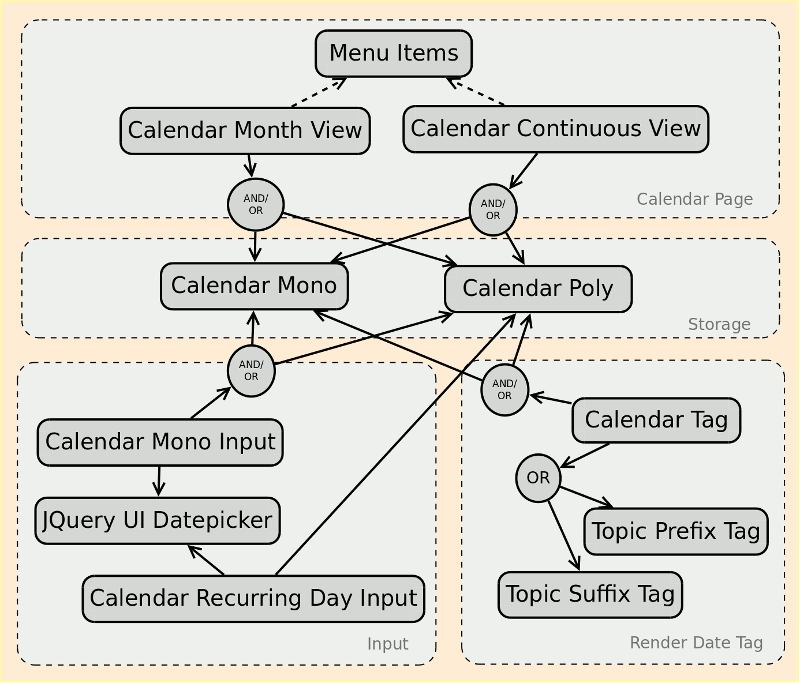
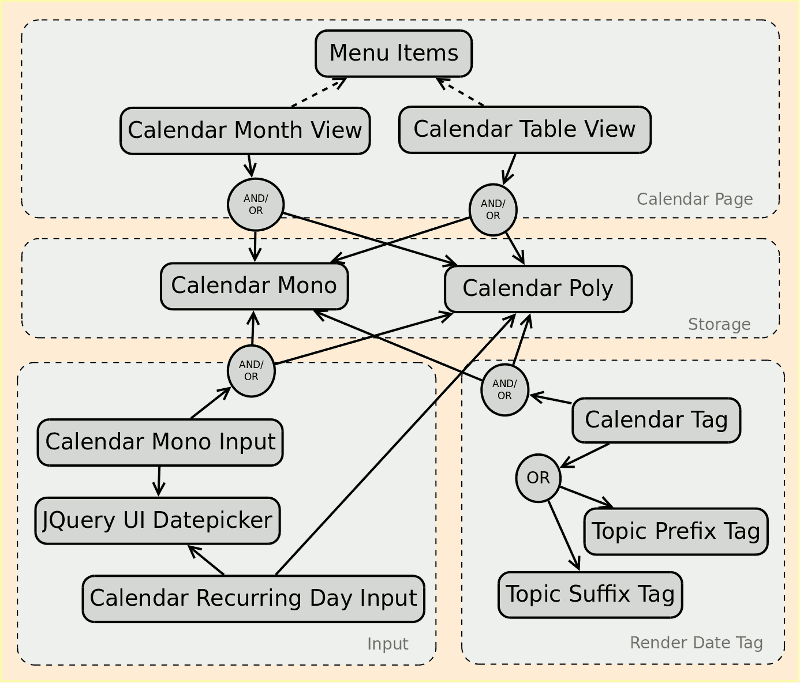
doc calendartableview in set

Changed region(s): [[0.5, 0.123, 0.9062, 0.2767], [0.5312, 0.0922, 0.5625, 0.123]]

diff --git a/doc/calendar-set.md b/doc/calendar-set.md
@@ -21,7 +21,7 @@ The following categories exist:
 ## Visualization
 
 * [Calendar Month View](https://github.com/marttiphpbb/phpbb-ext-calendarmonthview)
-* [Calendar Continuous View](https://github.com/marttiphpbb/phpbb-ext-calendarcontinuousview) (not ready yet) A Calendar view to visualize an extended period.
+* [Calendar Table View](https://github.com/marttiphpbb/phpbb-ext-calendartableview) A Calendar view to visualize an extended period.
 
 ## Archive
 
